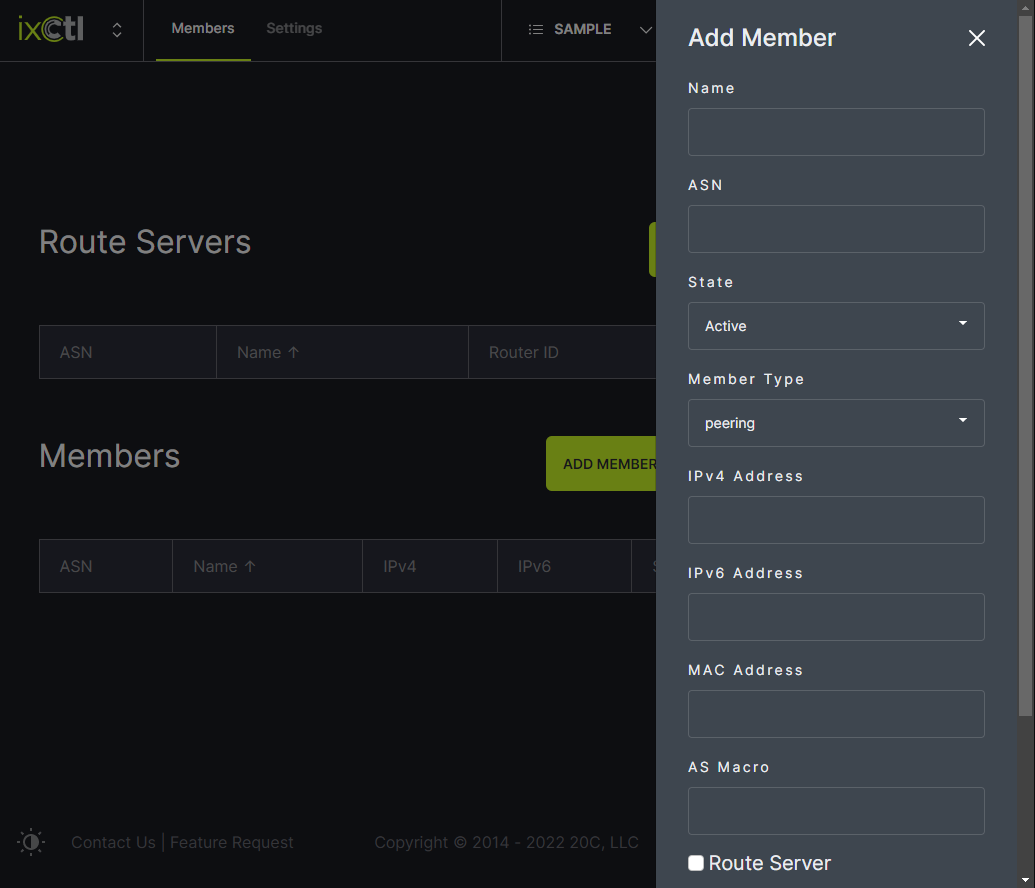
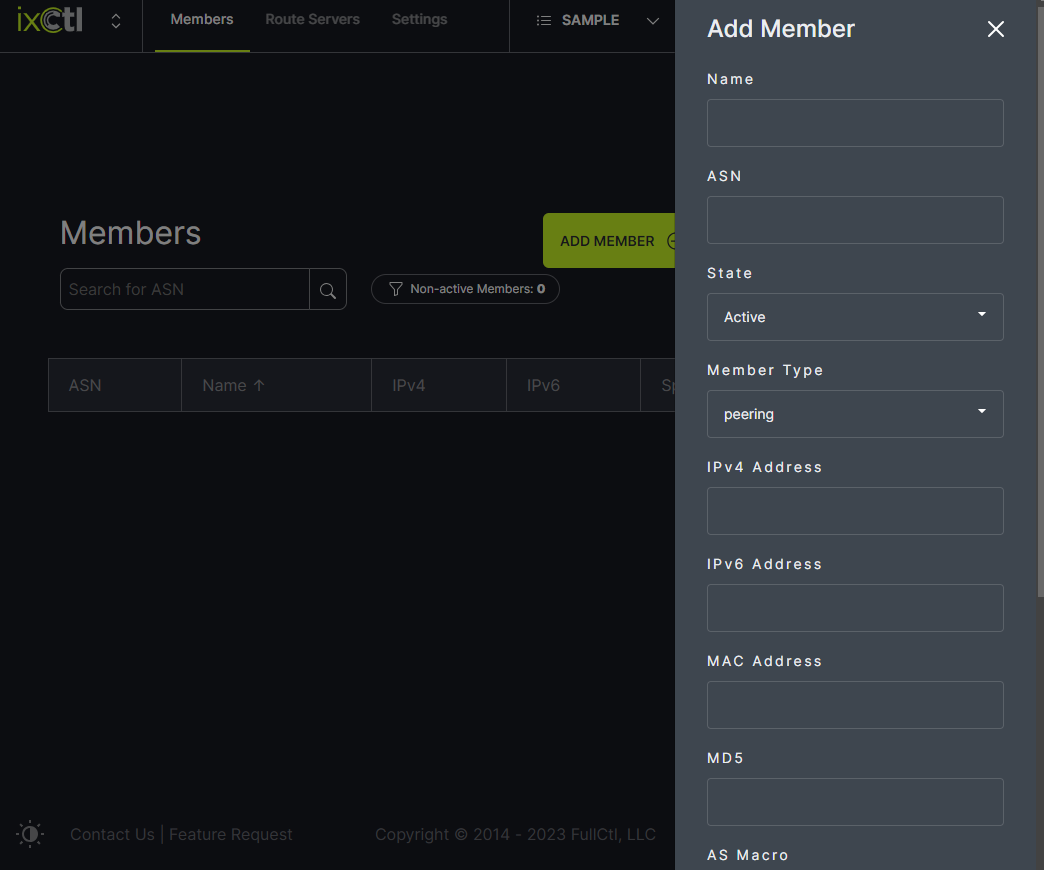
ixCtl update after UX modifications (#48)
* Update Add-Facility.md

* Add files via upload

* Delete savefacility.png

* Delete savefacility.png

* Add files via upload

* Delete docs/DeviceCtl/img/add-facility directory

* Add files via upload

* Delete savefacility.png

* Add files via upload

* Add files via upload

* aaaCtl pending invites update

* Update Settings.md

* Update Add-ASN.md

* Update Add-Monitor.md

* Add files via upload

* Update Check-Reputation.md

* Add files via upload

* Update Ports.md

* Create Dashboard.md

* Update mkdocs.yml

* Add files via upload

* Update mkdocs.yml

* Create Sign-Up.md

* Update Import-an-IX.md

* Update Create-an-IX.md

* Update Verify-Exchange.md

* Update Add-a-Member.md

* Update Add-A-Routeserver.md

* Update Add-A-Routeserver.md

* Update Add-A-Routeserver.md

* Update Add-a-Member.md

diff --git a/docs/ixctl/Add-a-Member.md b/docs/ixctl/Add-a-Member.md
@@ -1,5 +1,11 @@
 # Add a Member
 
+Prefix lists and AS-SETs are populated from the IRRs. The AS-SET names come from PeeringDB by default. These can be overridden in ixCtl but it is best to update them in PeeringDB. 
+Before adding a member to ixCtl, ensure the member has:
+
+- Registered their prefix with radb (fee based), ARIN (if lacking legacy space) or altdb.
+- Entered/updated their AS-Set in PeeringDB.
+
 Select the Exchange to which a member will be added from the header menu.  
    ![](img/addmember.png)
    
@@ -11,3 +17,6 @@ In the modal, enter the information and click Save.
 
 Member information can be edited or the member can be removed using the options on the right side of the window.
    ![](img/memberedit.png)
+   
+The drop down options in the header menu allow for setting a chosen member as the default.  
+   ![](img/default.png)

diff --git a/docs/ixctl/Add-A-Routeserver.md b/docs/ixctl/Add-A-Routeserver.md
@@ -1,6 +1,9 @@
 # Add a Route Server
 
-Select the Exchange to which a route server will be added from the header menu. 
+Click on the Route Servers tab in the header menu. 
+   ![](img/routeservers.png)
+   
+Choose the Exchange to which a route server will be added from the header menu. 
    ![](img/addmember.png)
    
 Next, click on the Add Route Server button.  
@@ -8,3 +11,6 @@ Next, click on the Add Route Server button.
 
 Enter the route server information and click Save.
    ![](img/createrouteserver.png)
+
+Using the options hover, click on Generate to update the list after new prefixes are added.
+   ![](img/generate.png)

diff --git a/docs/ixctl/Verify-Exchange.md b/docs/ixctl/Verify-Exchange.md
@@ -1,6 +1,6 @@
 # Verify Exchange
 
-Your exchange must be verified to fully use ixCtl. You will see a message on screen until your exchange is verified. 
+Your exchange must be verified to fully use ixCtl. You will see a message on screen until your exchange is verified. Note: each exchange added must be verified individually.
    ![](img/verifyexchange.png)
    
 Contact us at support@fullctl.com to request verification. After verification, your networks can use PeerCtl to update route server passwords and MAC-Addresses in your ixCtl environment.

diff --git a/docs/ixctl/Create-an-IX.md b/docs/ixctl/Create-an-IX.md
@@ -8,4 +8,4 @@ In the modal, enter the New Exchange name and click Continue. An empty IX space 
    
 The name of the new exchange will appear in the header menu.
    ![](img/addmember.png)
-In the (new) empty IX space, a Route Server or Member can be added. 
+In the (new) empty IX space, a Member can be added. 

diff --git a/docs/ixctl/Import-an-IX.md b/docs/ixctl/Import-an-IX.md
@@ -1,6 +1,6 @@
 # Import an IX
 
-From the Members tab, click on Import.
+From the drop down menu in the header, click on Import.
    ![](img/import.png)
    
 In the modal (Import from PeeringDB), enter the name of the IX you want to import and click continue. The IX information will appear.

diff --git a/docs/ixctl/Sign-Up.md b/docs/ixctl/Sign-Up.md
@@ -1,0 +1,7 @@
+# Sign Up
+
+To use ixCtl, users must sign up for an account. A Trial account is available at no cost. 
+   ![](img/starttrial.png)
+   
+Once a trial has started, IXes may be defined by importing or creating. 
+   ![](img/define.png)
